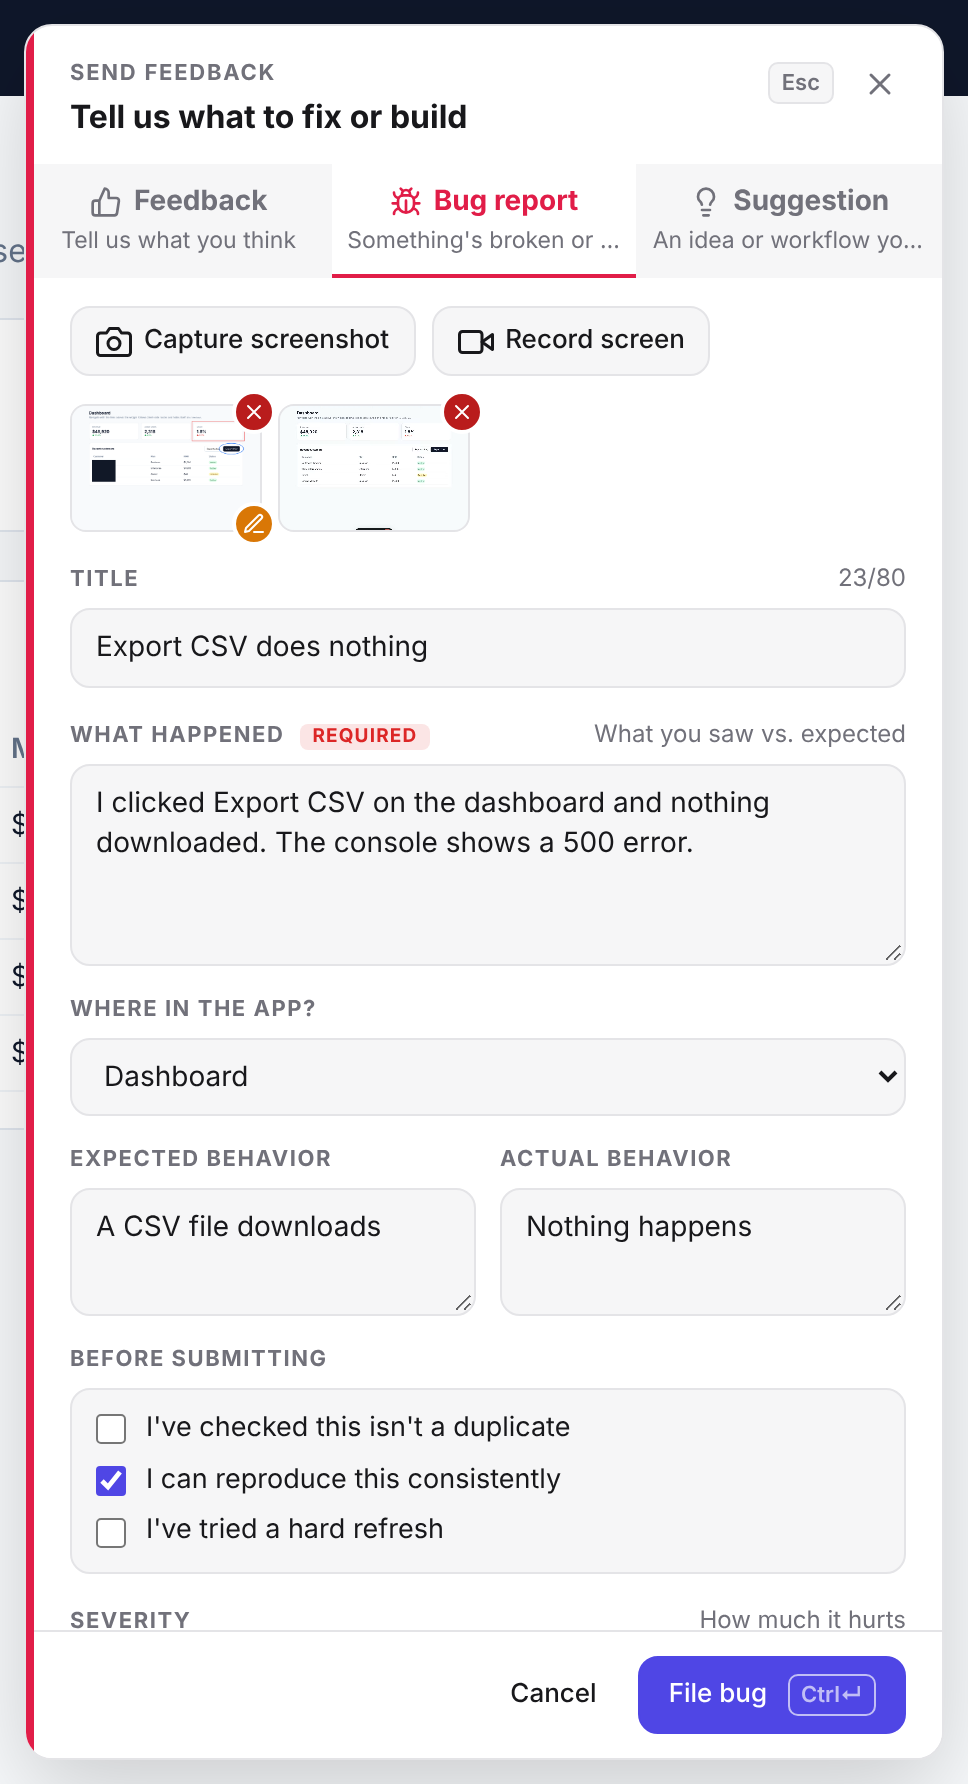
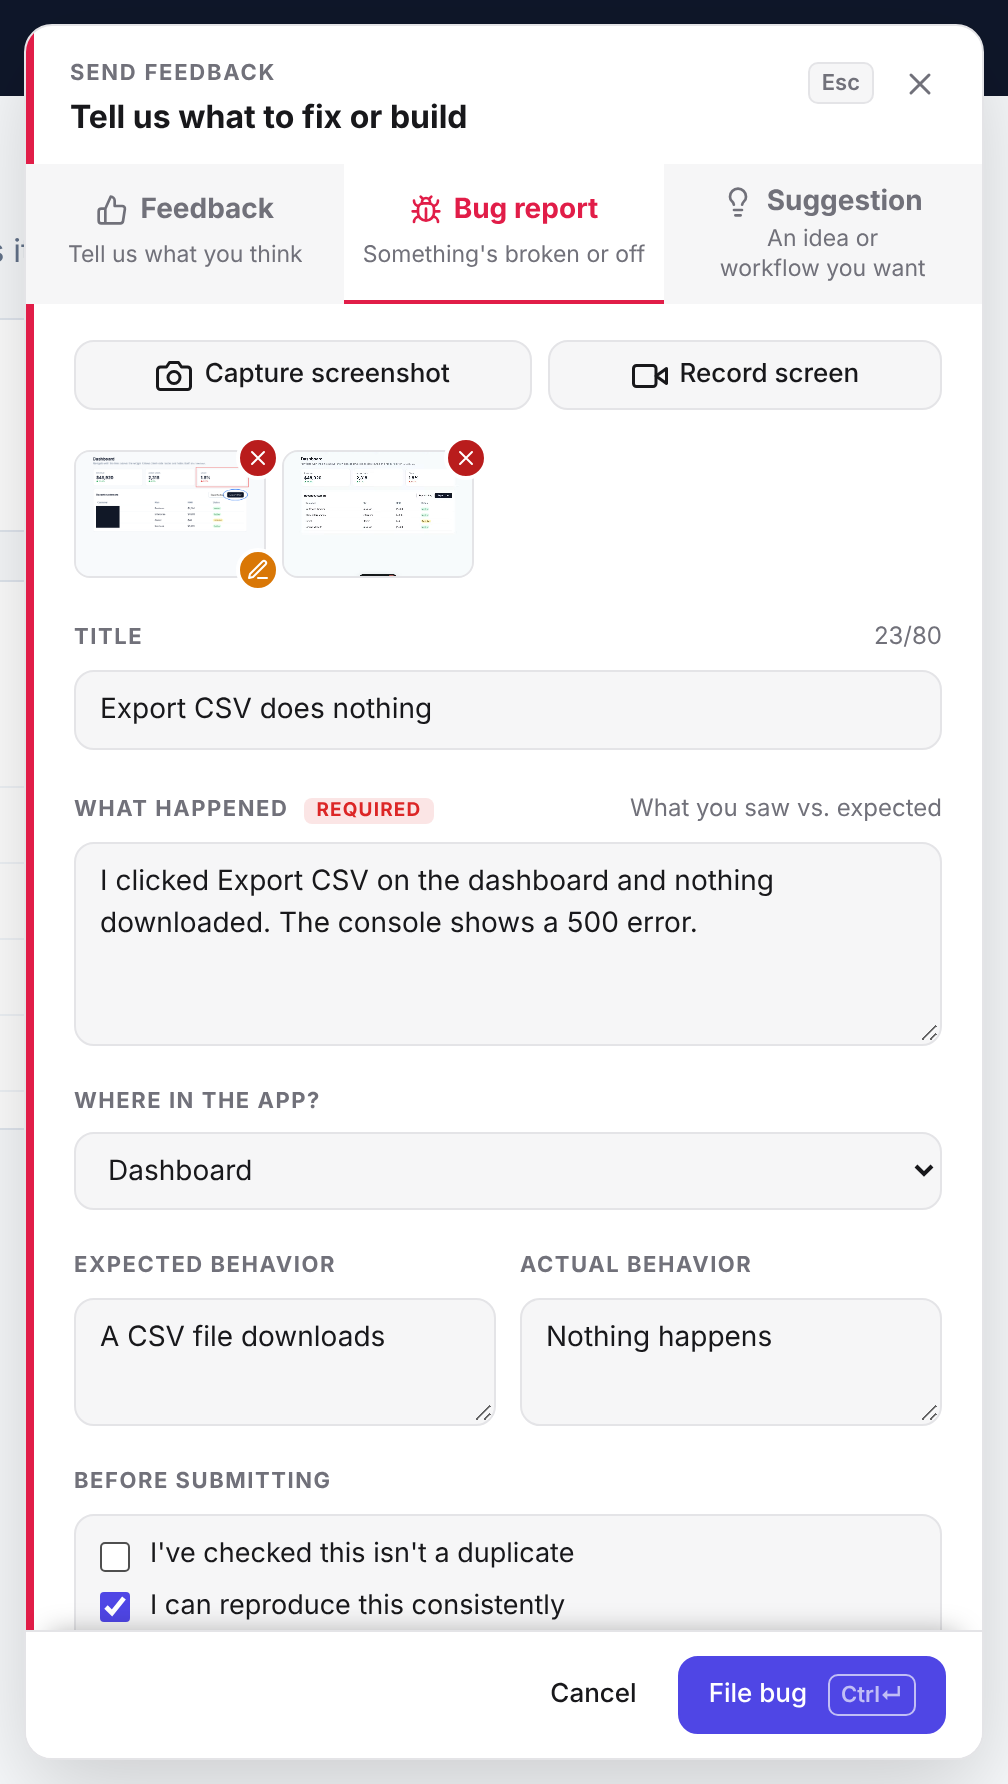
Fix cramped form layout: visible tab hints, one-row severity, scroll cues
- Tab descriptions wrap onto two balanced lines instead of being cut
  off with an ellipsis (hidden on phones); default panel width 480px.
- Severity/priority is a 4-column segmented control with the hint
  under each label, so it fits on one row instead of wrapping.
- Tabs and footer get a soft shadow while there is more form above or
  below, so scrolled content no longer looks cropped.
- More spacing between sections; capture/record buttons share the row
  and the panel uses tighter padding on small screens.
- Regenerated README screenshots.

Claude-Session: https://claude.ai/code/session_01PbtvtqDVpmi4bgk9HD8Dfc

diff --git a/src/ui/styles.ts b/src/ui/styles.ts
@@ -16,7 +16,7 @@ export const styles = /* css */ `
   --fb-font-size: 14px;
   --fb-radius: 10px;
   --fb-shadow: 0 16px 48px rgba(0, 0, 0, 0.18);
-  --fb-panel-width: 460px;
+  --fb-panel-width: 480px;
   font-family: var(--fb-font);
   font-size: var(--fb-font-size);
   line-height: 1.45;
@@ -127,18 +127,26 @@ button { cursor: pointer; }
 .fb-tab[aria-selected="true"] { background: var(--fb-bg); color: var(--fb-type); border-bottom-color: var(--fb-type); }
 .fb-tab-title { display: inline-flex; align-items: center; gap: 6px; font-weight: 650; }
 .fb-tab-title .fb-icon { width: 16px; height: 16px; }
-.fb-tab-hint { font-size: 11.5px; color: var(--fb-muted); max-width: 100%; white-space: nowrap; overflow: hidden; text-overflow: ellipsis; }
+.fb-tab-hint {
+  font-size: 11.5px; line-height: 1.3; color: var(--fb-muted); text-align: center;
+  text-wrap: balance;
+  display: -webkit-box; -webkit-box-orient: vertical; -webkit-line-clamp: 2; overflow: hidden;
+}
 .fb-tab { min-width: 0; }
+@media (max-width: 520px) { .fb-tab-hint { display: none; } }
+.fb-tabs, .fb-footer { position: relative; z-index: 1; transition: box-shadow .15s ease; }
+.fb-tabs.fb-raised { box-shadow: 0 10px 14px -12px rgba(0, 0, 0, .35); }
+.fb-footer.fb-raised { box-shadow: 0 -10px 14px -12px rgba(0, 0, 0, .35); }
 
 .fb-form { display: flex; flex-direction: column; min-height: 0; flex: 1; }
-.fb-body { overflow-y: auto; padding: 14px 18px 16px 22px; display: grid; gap: 14px; }
+.fb-body { overflow-y: auto; padding: 18px 20px 22px 24px; display: grid; gap: 20px; }
 .fb-footer {
   display: flex; align-items: center; gap: 8px;
   padding: 12px 18px 12px 22px; border-top: 1px solid var(--fb-border); background: var(--fb-bg);
 }
 
 /* ---------- fields */
-.fb-field { display: grid; gap: 6px; min-width: 0; }
+.fb-field { display: grid; gap: 8px; min-width: 0; }
 .fb-field-head { display: flex; align-items: baseline; justify-content: space-between; gap: 8px; }
 .fb-label {
   display: inline-flex; align-items: center; gap: 8px;
@@ -184,6 +192,16 @@ select.fb-input { appearance: auto; }
 .fb-chip[aria-checked="true"], .fb-chip[aria-pressed="true"] { background: var(--fb-text); border-color: var(--fb-text); color: var(--fb-bg); }
 .fb-chip-hint { font-size: 11.5px; opacity: .7; }
 .fb-chip-hint:empty { display: none; }
+.fb-segments { display: grid; grid-template-columns: repeat(4, minmax(0, 1fr)); gap: 6px; }
+@media (max-width: 400px) { .fb-segments { grid-template-columns: repeat(2, minmax(0, 1fr)); } }
+.fb-chip.fb-segment {
+  display: grid; align-content: start; justify-items: start; gap: 2px;
+  padding: 8px 10px; border-radius: var(--fb-radius); text-align: left; min-width: 0;
+}
+.fb-segment-top { display: inline-flex; align-items: center; gap: 6px; font-weight: 600; }
+.fb-segment .fb-chip-hint { font-size: 11px; line-height: 1.25; }
+.fb-segment .fb-chip-hint:empty { display: block; }
+.fb-segment .fb-chip-hint:empty::before { content: "\\00a0"; }
 .fb-dot-sm { width: 7px; height: 7px; border-radius: 999px; background: var(--fb-muted); flex: none; }
 .fb-sev-critical .fb-dot-sm { background: #e11d48; }
 .fb-sev-high .fb-dot-sm { background: #ea580c; }
@@ -193,6 +211,12 @@ select.fb-input { appearance: auto; }
 .fb-mood-frustrated .fb-dot-sm { background: #ea580c; }
 
 .fb-actions { display: flex; gap: 8px; flex-wrap: wrap; }
+.fb-actions .fb-btn { flex: 1 1 auto; white-space: nowrap; }
+@media (max-width: 520px) {
+  .fb-header { padding: 14px 14px 10px 18px; }
+  .fb-body { padding: 16px 14px 18px 18px; gap: 18px; }
+  .fb-footer { padding: 10px 14px 10px 18px; }
+}
 .fb-btn {
   display: inline-flex; align-items: center; justify-content: center; gap: 6px;
   padding: 7px 12px;
@@ -243,6 +267,8 @@ select.fb-input { appearance: auto; }
 .fb-switch-input:focus-visible + .fb-switch { outline: 2px solid var(--fb-primary); outline-offset: 2px; }
 
 .fb-summary > summary { display: flex; align-items: center; justify-content: space-between; gap: 8px; padding: 11px 14px; cursor: pointer; list-style: none; }
+.fb-summary > summary .fb-label { flex: none; }
+.fb-summary > summary .fb-hint { min-width: 0; overflow: hidden; text-overflow: ellipsis; white-space: nowrap; }
 .fb-summary > summary::-webkit-details-marker { display: none; }
 .fb-summary > summary::after { content: "▾"; color: var(--fb-muted); }
 .fb-summary[open] > summary::after { content: "▴"; }

diff --git a/src/ui/form.ts b/src/ui/form.ts
@@ -132,6 +132,8 @@ export class ReportForm {
   private readonly severityTypes: FeedbackType[];
   private severity: Severity | '';
   private sentiment: Sentiment | '';
+  private readonly body: HTMLElement;
+  private readonly footer: HTMLElement;
 
   constructor(private readonly config: FormConfig) {
     const { options, labels: l, handlers, draft } = config;
@@ -258,19 +260,18 @@ export class ReportForm {
         this.severityHint,
         h(
           'div',
-          { class: 'fb-chips', role: 'radiogroup' },
+          { class: 'fb-segments', role: 'radiogroup' },
           ...SEVERITIES.map((value) => {
             const button = h(
               'button',
               {
                 type: 'button',
-                class: `fb-chip fb-sev-${value}`,
+                class: `fb-chip fb-segment fb-sev-${value}`,
                 part: 'chip',
                 role: 'radio',
                 onclick: () => this.setSeverity(value),
               },
-              h('span', { class: 'fb-dot-sm' }),
-              h('span', { class: 'fb-chip-label' }),
+              h('span', { class: 'fb-segment-top' }, h('span', { class: 'fb-dot-sm' }), h('span', { class: 'fb-chip-label' })),
               h('span', { class: 'fb-chip-hint' }),
             );
             this.severityButtons.set(value, button);
@@ -430,14 +431,14 @@ export class ReportForm {
     // ---- footer
     this.error = h('p', { class: 'fb-error', role: 'alert', hidden: true });
     this.submit = h('button', { type: 'submit', class: 'fb-btn fb-btn-primary', part: 'submit' });
-    const footer = h(
+    const footer = (this.footer = h(
       'div',
       { class: 'fb-footer', part: 'footer' },
       this.error,
       h('span', { class: 'fb-spacer' }),
       h('button', { type: 'button', class: 'fb-btn fb-btn-ghost', part: 'button', onclick: () => handlers.onCancel() }, l.cancel),
       this.submit,
-    );
+    ));
 
     const expectedActual =
       this.expected && this.actual
@@ -447,9 +448,9 @@ export class ReportForm {
     const checklistRow = checklistBox ? this.section(l.checklist, null, checklistBox) : null;
     if (checklistRow) this.perType.push({ el: checklistRow, types: ['bug'] });
 
-    const body = h(
+    const body = (this.body = h(
       'div',
-      { class: 'fb-body', part: 'body' },
+      { class: 'fb-body', part: 'body', onscroll: () => this.syncScrollShadows() },
       this.screenshotButton || this.recordButton
         ? h('div', { class: 'fb-actions' }, this.screenshotButton, this.recordButton)
         : null,
@@ -479,7 +480,7 @@ export class ReportForm {
       this.email,
       anonymousRow,
       summaryRow,
-    );
+    ));
 
     this.form = h(
       'form',
@@ -544,12 +545,23 @@ export class ReportForm {
       };
       this.severityButtons.forEach((button, value) => {
         button.querySelector('.fb-chip-label')!.textContent = l[value];
-        button.querySelector('.fb-chip-hint')!.textContent = hints[value] ? `· ${hints[value]}` : '';
+        button.querySelector('.fb-chip-hint')!.textContent = hints[value];
       });
     }
     this.setSeverity(this.severity);
+    requestAnimationFrame(() => this.syncScrollShadows());
     this.submit.dataset.label = { bug: l.submitBug, feedback: l.submitFeedback, suggestion: l.submitSuggestion }[type];
     this.setSubmitting(false);
+  }
+
+  /**
+   * Shades the edge of the tabs and footer while there is more form above or
+   * below, so scrolled content reads as "continues" rather than cut off.
+   */
+  syncScrollShadows(): void {
+    const { scrollTop, clientHeight, scrollHeight } = this.body;
+    this.tabs?.classList.toggle('fb-raised', scrollTop > 2);
+    this.footer.classList.toggle('fb-raised', scrollTop + clientHeight < scrollHeight - 2);
   }
 
   get currentType(): FeedbackType {

diff --git a/src/widget.ts b/src/widget.ts
@@ -111,6 +111,7 @@ export class FeedbackWidget {
     this.refreshSummary();
     this.updateLauncher();
     this.els.form.focus();
+    this.els.form.syncScrollShadows();
     this.options.onOpen?.();
   }
 
